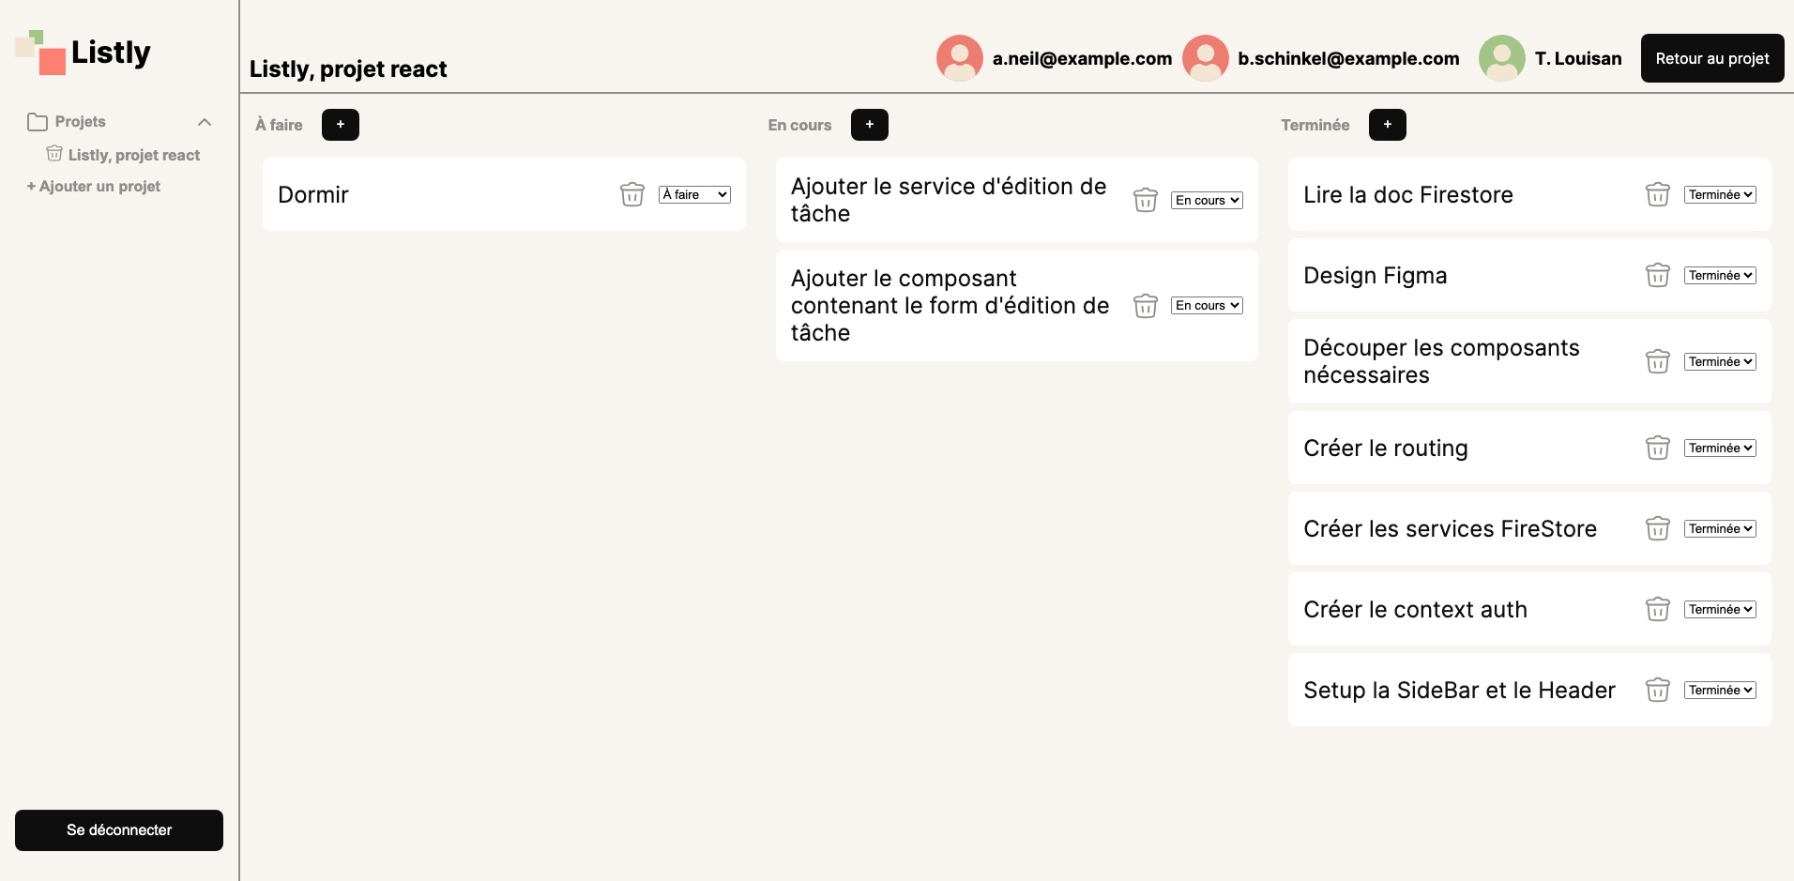
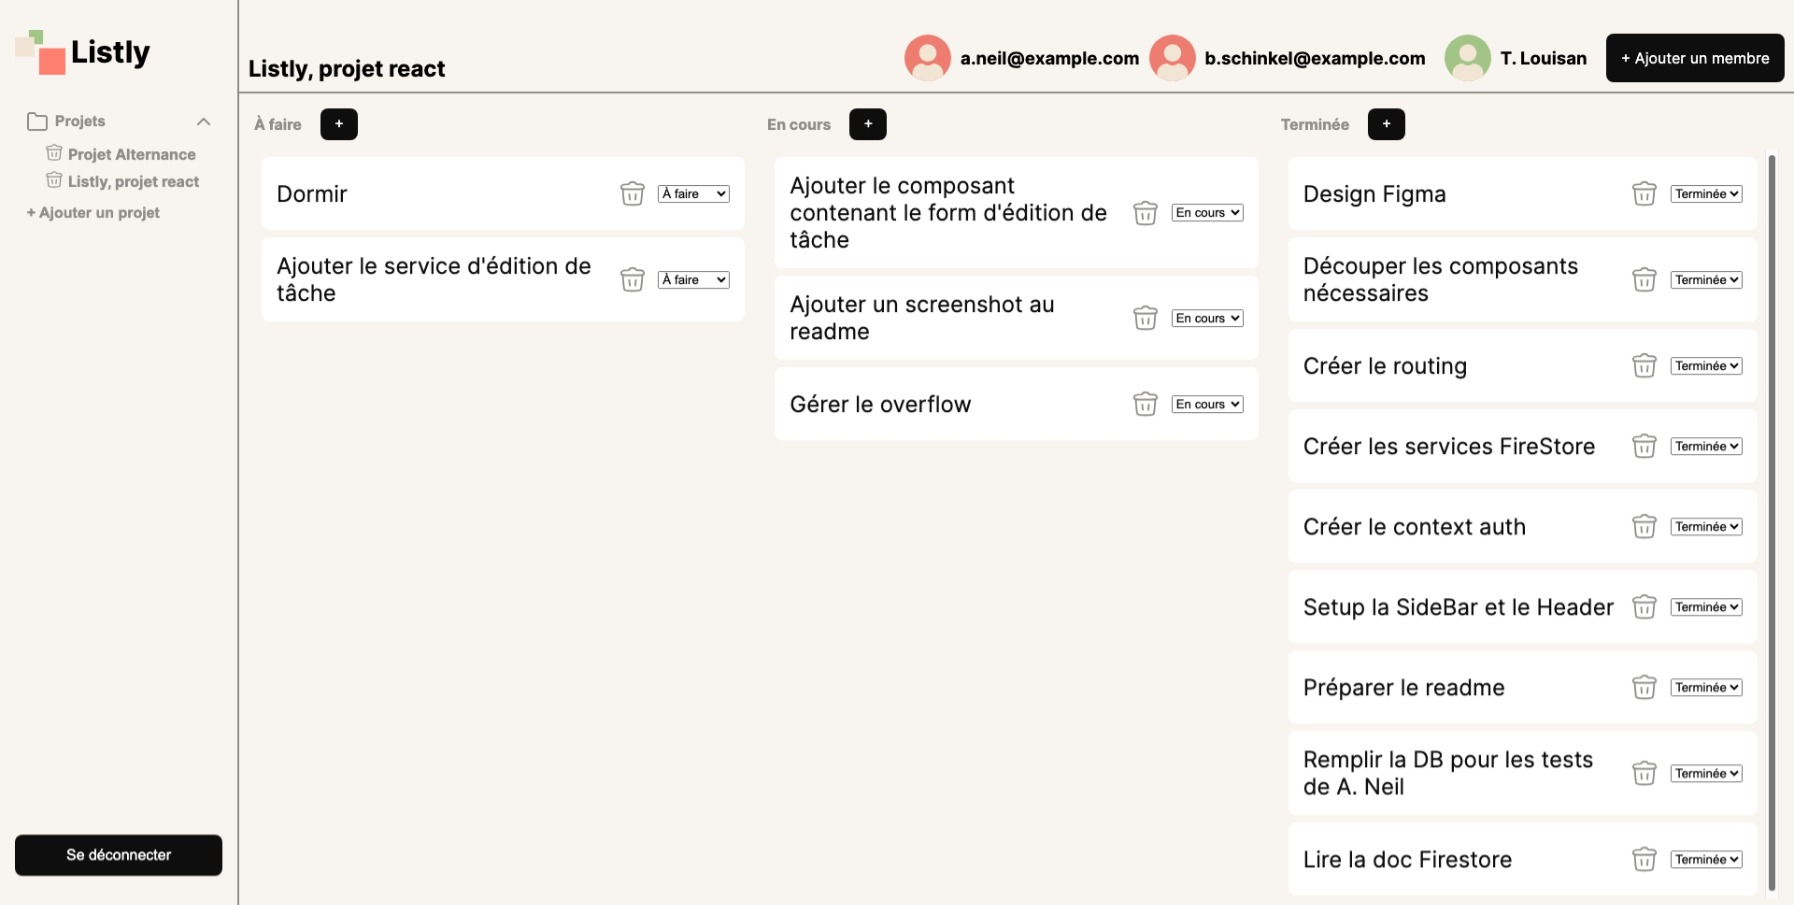
doc: use the screenshot in md

diff --git a/README.md b/README.md
@@ -9,6 +9,10 @@ Temps : 2 jours
 - [Benjamin SCHINKEL](https://github.com/LeBenjos)
 - [Lousian TCHITOULA](https://github.com/LTOssian)
 
+## Aperçu
+
+![Screenshot](/public/assets/pictures/visuel-listly.jpeg)
+
 ## Lancer le projet
 
 Cloner le projet :
